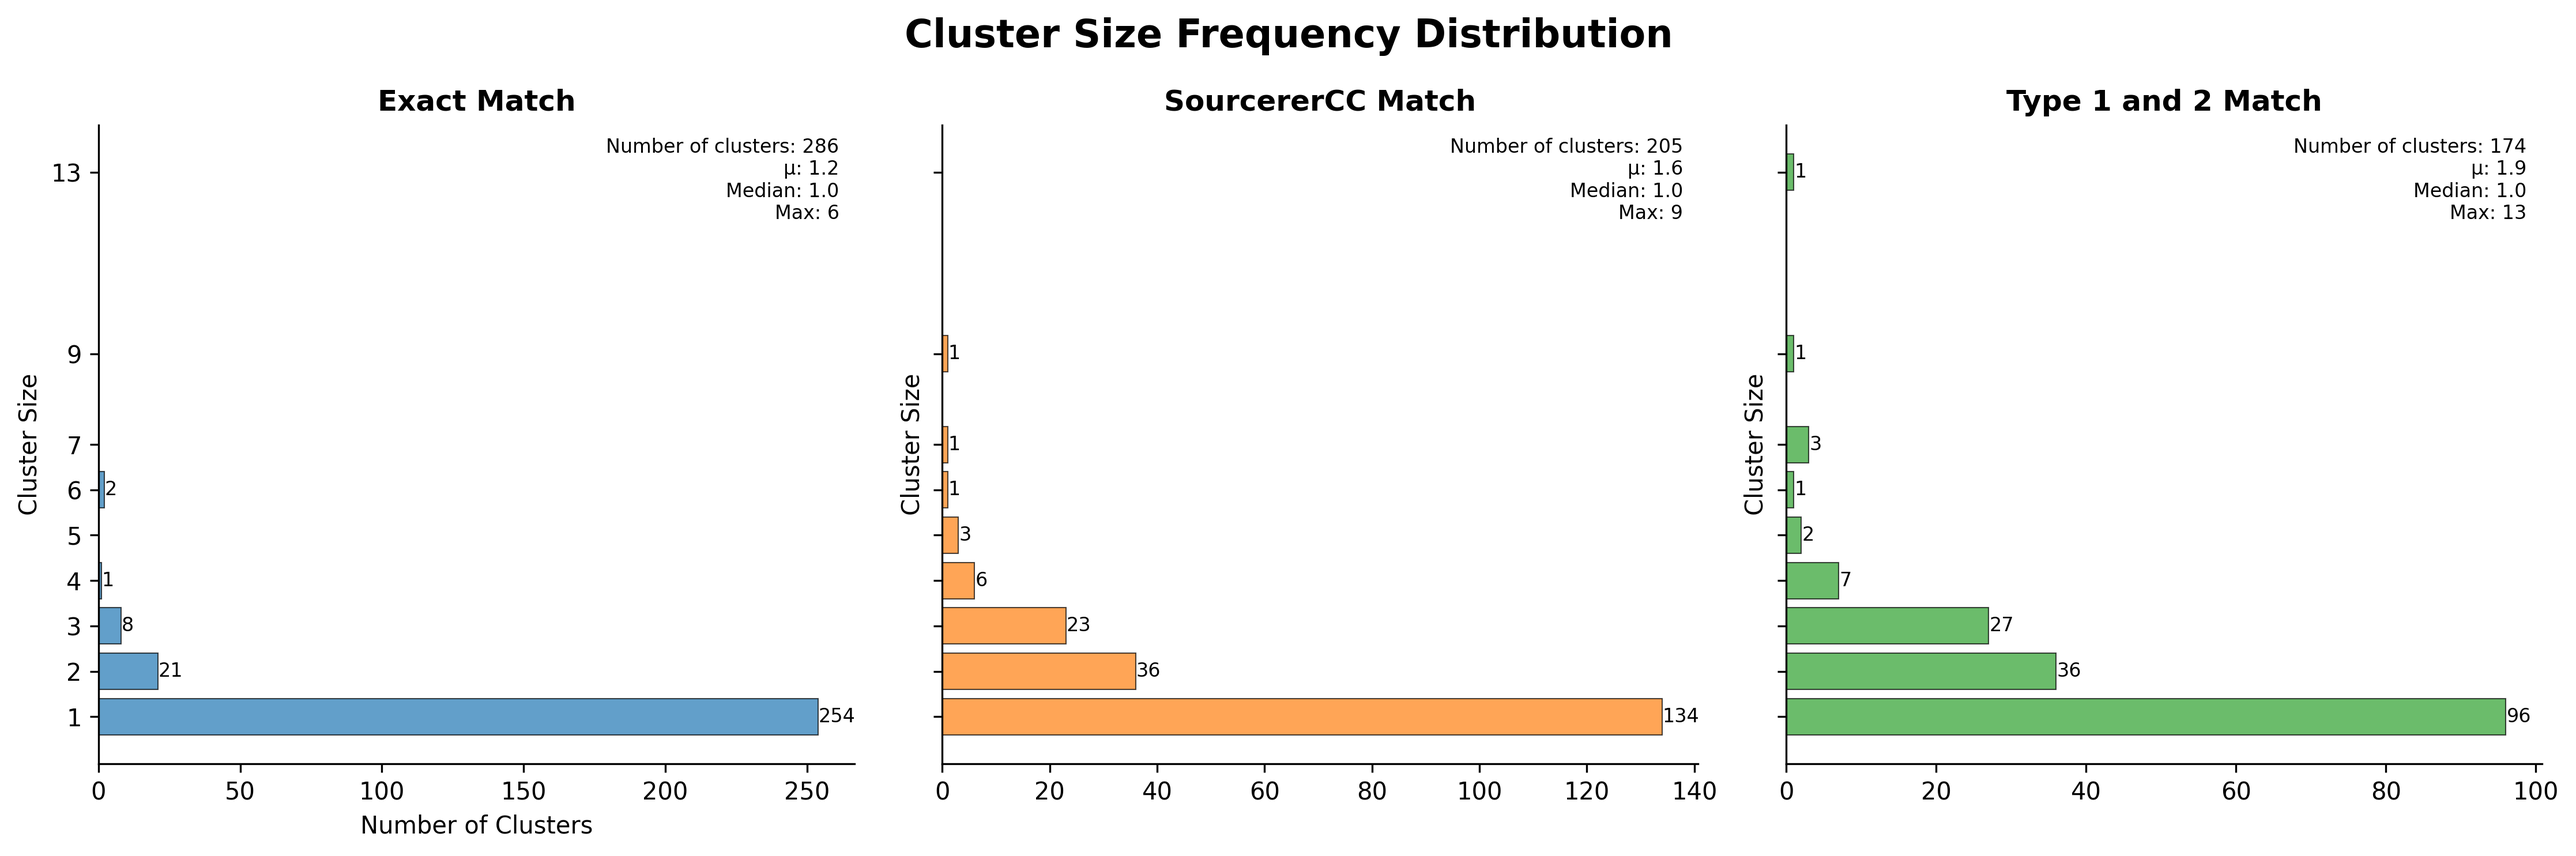
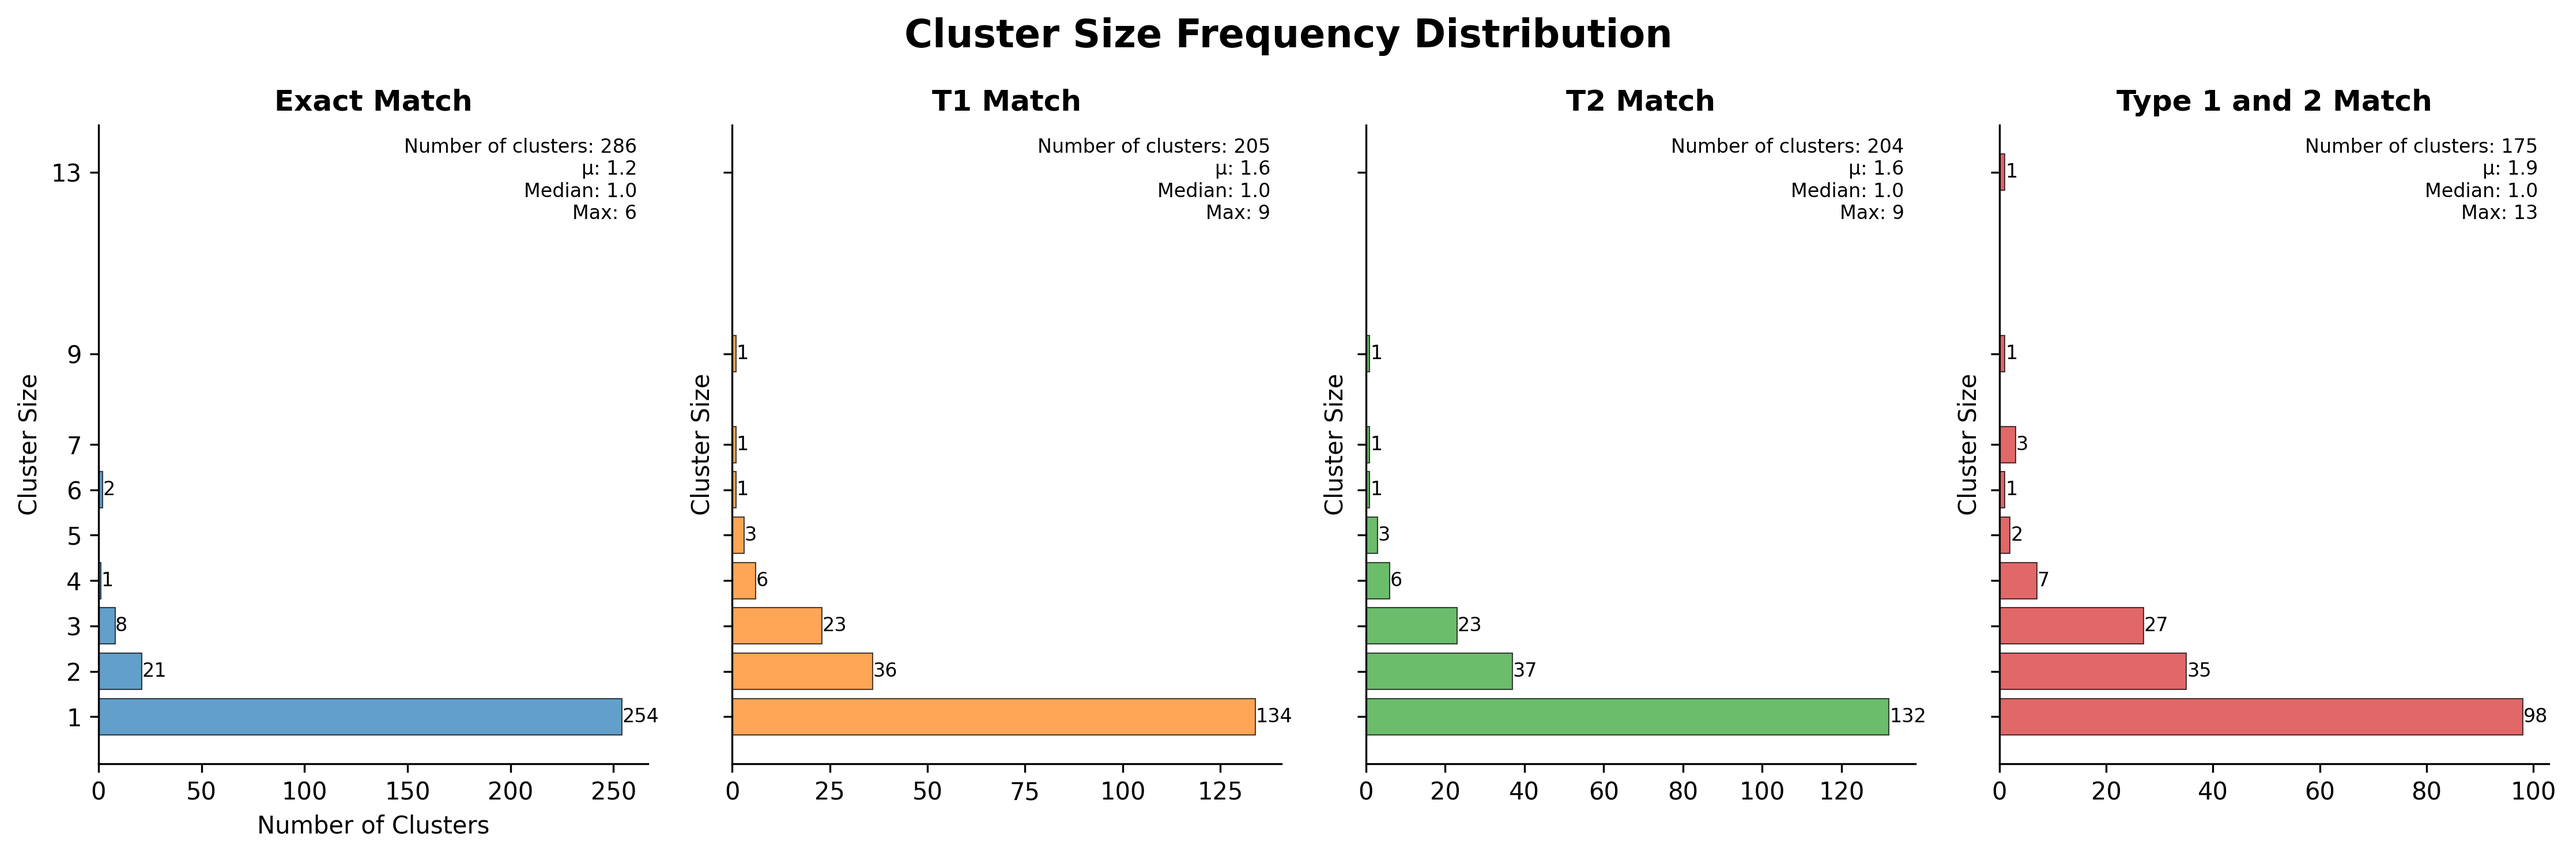
fix

diff --git a/rq1_plots.py b/rq1_plots.py
@@ -218,11 +218,11 @@ def plot_cluster_size_frequency_bars(experiment_dfs, experiment_names=None, save
         raise ValueError("experiment_dfs must be a dictionary or list of DataFrames")
     
     # Create subplots
-    fig, axes = plt.subplots(1, 3, figsize=figsize, sharey=True)
+    fig, axes = plt.subplots(1, 4, figsize=figsize, sharey=True)
     fig.suptitle('Cluster Size Frequency Distribution', fontsize=16, fontweight='bold')
     
     # Define colors for consistency
-    colors = ['#1f77b4', '#ff7f0e', '#2ca02c']
+    colors = ['#1f77b4', '#ff7f0e', '#2ca02c', '#d62728', '#9467bd', '#8c564b']
     
     # Create bar chart for each experiment
     for idx, (exp_name, df) in enumerate(exp_dict.items()):
@@ -388,12 +388,14 @@ def run_plots_cluster_size_frequency():
     # Load your data (replace with your actual data loading)
     exact_match = pd.read_pickle(os.path.join(TMP_RQ1_DATA_DIR, "cluster-sizes-exact-match.pkl"))
     sourcerercc_match = pd.read_pickle(os.path.join(TMP_RQ1_DATA_DIR, "cluster-sizes-sourcerercc-match.pkl"))
+    matching_clone = pd.read_pickle(os.path.join(TMP_RQ1_DATA_DIR, "cluster-sizes-matching-type-2.pkl"))
     type_1_2 = pd.read_pickle(os.path.join(TMP_RQ1_DATA_DIR, "cluster-sizes-type-1-2.pkl"))
-    
+
     experiments = {
         'Exact Match': exact_match,
-        'SourcererCC Match': sourcerercc_match,
-        'Type 1 and 2 Match': type_1_2
+        'T1 Match': sourcerercc_match,
+        'T2 Match': matching_clone,
+        'Type 1 and 2 Match': type_1_2,
     }
     
     # Create 3 separate bar charts

diff --git a/utils/config.py b/utils/config.py
@@ -73,6 +73,7 @@ TMP_METHOD_TOOL_PATHCES_PKL = os.path.join(TMP_DATA_DIR, "method-tool-patches.pk
 TMP_GENERATOR_NORMALIZED_DEVELOPER_PATHCES_PKL = os.path.join(TMP_DATA_DIR, "generator-normalized-developer-patches.pkl")
 TMP_GENERATOR_NORMALIZED_TOOL_PATHCES_PKL = os.path.join(TMP_DATA_DIR, "generator-normalized-tool-patches.pkl")
 TMP_SINGLE_HUNK_TOOL_PATHCES_PKL = os.path.join(TMP_DATA_DIR, "single-hunk-tool-patches.pkl")
+TMP_SINGLE_HUNK_DEVELOPER_PATHCES_PKL = os.path.join(TMP_DATA_DIR, "single-hunk-developer-patches.pkl")
 TMP_DEDUPLICATED_TOOL_PATHCES_PKL = os.path.join(TMP_DATA_DIR, "deduplicated-tool-patches.pkl")
 TMP_SECOND_DEDUPLICATED_DEVELOPER_PATHCES_PKL = os.path.join(TMP_DATA_DIR, "second-deduplicated-developer-patches.pkl")
 TMP_SECOND_DEDUPLICATED_TOOL_PATHCES_PKL = os.path.join(TMP_DATA_DIR, "second-deduplicated-tool-patches.pkl")

diff --git a/utils/benchmark.py b/utils/benchmark.py
@@ -697,10 +697,10 @@ def fix_patch(patch: pd.Series, bugs: pd.DataFrame) -> str:
 # Returns method
 def get_method(patch: pd.Series, bugs: pd.DataFrame = None):
     patch_uid = patch.name
-    logging.info(f"Getting method of the patch: {patch_uid}")
+    logging.debug(f"Getting method of the patch: {patch_uid}")
     out_put_dir = os.path.join(TMP_METHODS_DIR, patch.name)
     if os.path.exists(out_put_dir):
-        logging.info(f"Methods already exist for the patch: {patch_uid}")
+        logging.debug(f"Methods already exist for the patch: {patch_uid}")
         all_files = os.listdir(out_put_dir)
         # Filter and sort the files for target and source files
         target_files = sorted([f for f in all_files if f.startswith('target-')], key=lambda x: int(x.split('-')[1].split('.')[0]))
